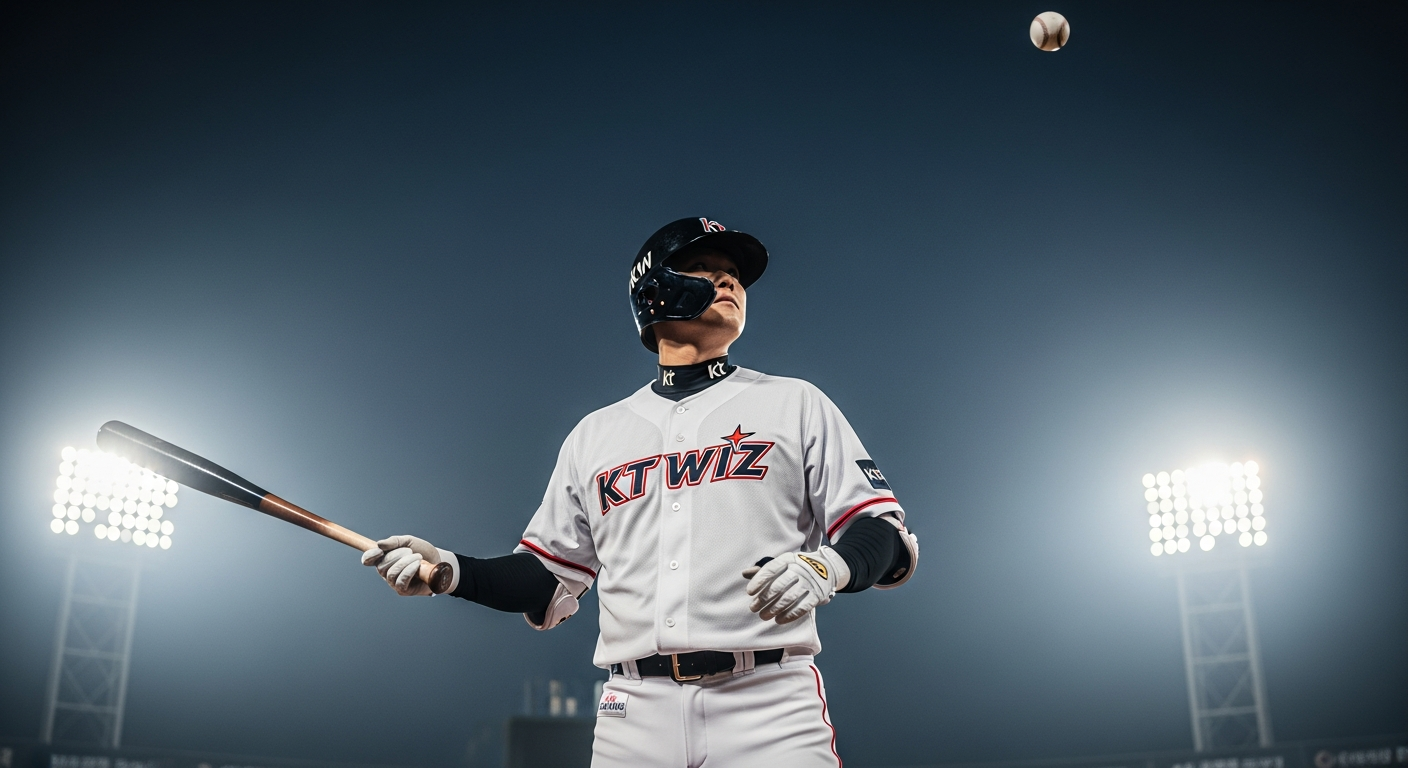
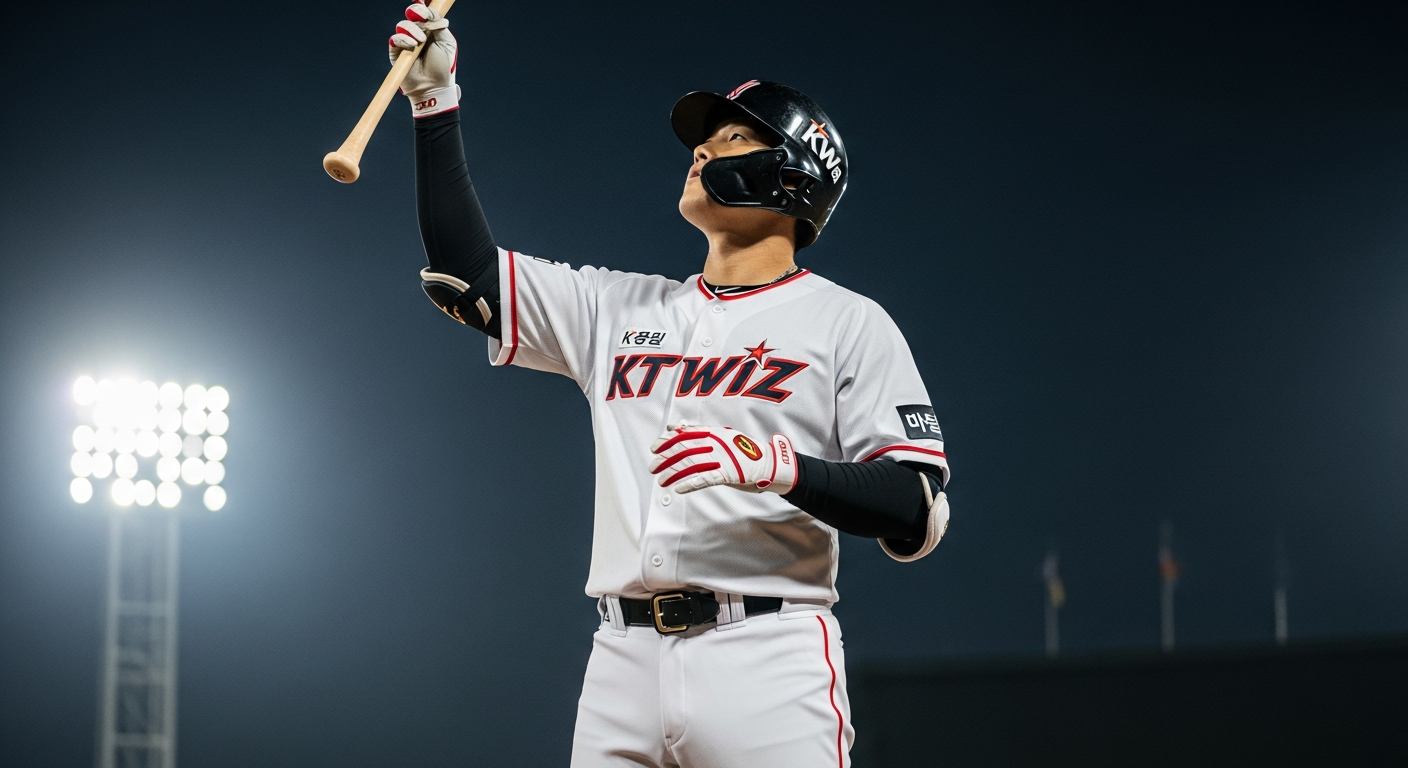
Redo all home-run swings with proper mechanics (ultra model)
S07/S072/S073/S13 스윙을 실제 홈런 스윙 역학으로 재작업:
- S07: 완전한 팔로스루(배트 높이 마무리·공 추적)
- S072: 홈런 감상 히어로 포즈(배트 들고 타구 응시)
- S073: 컨택 순간(양팔 extension·공 launch)
- S13: 결정적 역전 타격(온전한 배트·힙 회전·공 launch)

Claude-Session: https://claude.ai/code/session_015yMmkmfTh7M9GYKm5ba87N

diff --git a/scripts/generate-images.py b/scripts/generate-images.py
@@ -64,21 +64,26 @@ PROMPTS = {
            f"crouched in a KT Wiz style uniform (white with red pinstripes, black catcher "
            f"gear and mask), batter's box and home plate, blazing stadium floodlights, "
            f"packed roaring crowd, cinematic sports broadcast opening, {NEG}",
-    "S07": f"Dynamic slow motion side view: {HOME_ONE}, a power hitter finishing an "
-           f"explosive home-run swing with a full high follow-through — hips fully "
-           f"rotated, bat whipped up around the shoulder, front leg braced, eyes locked "
-           f"on the ball, the baseball already launched high and far into the night sky "
-           f"ahead, majestic heroic power pose, stadium lights flaring, dust particles, "
-           f"cinematic sports film, {NEG}",
-    "S072": f"Dramatic low angle hero shot: {HOME_ONE}, a power hitter frozen just after a "
-            f"home-run swing, standing tall and watching his blast soar, bat still raised "
-            f"in one hand, chin up, proud confident stance, the baseball a bright dot high "
-            f"in the night sky, blazing stadium floodlights behind, cinematic sports "
-            f"film, {NEG}",
-    "S073": f"Dynamic three-quarter rear view: {HOME_ONE}, a power hitter uncoiling "
-            f"through a massive home-run swing, back muscles and hips rotating explosively, "
-            f"bat blur, dirt and dust kicking up, the baseball rocketing off toward the "
-            f"outfield lights, night stadium, cinematic sports film, {NEG}",
+    "S07": f"Slow motion three-quarter front view: {HOME_ONE}, a power hitter at the "
+           f"COMPLETE FOLLOW-THROUGH of a real home-run swing — the wooden bat has "
+           f"whipped all the way around and is finishing high behind the lead shoulder "
+           f"near his neck, hips fully rotated so the belt buckle faces the pitcher, "
+           f"weight fully transferred onto a firmly braced front leg with the back foot "
+           f"up on its toe, head up and eyes tracking the ball flying out, balanced "
+           f"athletic professional KBO power-hitter mechanics, NOT off-balance, stadium "
+           f"lights flaring, cinematic sports film, {NEG}",
+    "S072": f"Dramatic low hero angle: {HOME_ONE}, a slugger holding a picture-perfect "
+            f"home-run finish and admiring his blast — standing tall and proud, top hand "
+            f"released with one hand holding the bat high, chin lifted, eyes locked on "
+            f"the soaring ball, back foot on its toe, textbook balanced follow-through "
+            f"pose like a hitter watching a no-doubt home run, blazing stadium "
+            f"floodlights behind, cinematic sports film, {NEG}",
+    "S073": f"Explosive slow motion at the moment of contact: {HOME_ONE}, a power hitter "
+            f"driving a home-run swing with both arms fully extended out front, the bat "
+            f"barrel squaring up and crushing the baseball, hips firing open and shoulders "
+            f"rotating through, back foot pivoting on the toe, the ball exploding off the "
+            f"barrel, dust and light bursting, correct professional swing plane, night "
+            f"stadium lights, cinematic sports film, {NEG}",
     "S08": f"Dramatic slow motion side angle at ground level: {HOME_ONE}, a runner diving "
            f"head-first into second base, dust cloud exploding, {AWAY_ONE} applying a late "
            f"tag, night stadium lights, cinematic sports photography, shallow depth of "
@@ -126,13 +131,15 @@ PROMPTS = {
              f"taking a lead-off stance just off third base at night, poised and ready to "
              f"break for home but NOT running, tense determined expression, stadium "
              f"floodlights, vertical composition, cinematic sports, {NEG}",
-    # 타격의 순간 — 자연스러운 홈런 스윙 컨택(온전한 배트)
-    "S13": f"Dynamic slow motion: {HOME_ONE}, a power hitter making clean solid contact on "
-           f"a home-run swing, natural well-balanced professional batting mechanics, both "
-           f"hands firmly gripping a single INTACT wooden bat (bat is whole and not "
-           f"broken) connecting squarely with the baseball, the ball launching cleanly "
-           f"off the barrel toward the outfield, strong controlled posture, stadium "
-           f"lights flaring, light dust, cinematic sports film, {NEG}",
+    # 타격의 순간 — 결정적 역전 홈런 스윙(머니샷)
+    "S13": f"Majestic slow motion three-quarter view: {HOME_ONE}, a power hitter unloading "
+           f"the decisive home-run swing at the instant of a perfect launch — a single "
+           f"INTACT wooden bat (whole, not broken) making explosive square contact out "
+           f"front, arms extended, hips fully fired open with the belt buckle to the "
+           f"pitcher, back foot up on the toe, weight on a braced front leg, the baseball "
+           f"rocketing off the barrel toward the outfield lights, dramatic backlit "
+           f"silhouette, textbook professional KBO power-hitter mechanics, balanced and "
+           f"powerful, cinematic sports climax, {NEG}",
     # 공이 밤하늘 저 멀리 (여운)
     "S13B": f"Slow motion low angle looking up: a single baseball soaring high and far "
             f"into the dark night sky between two blazing stadium light towers, the ball "
